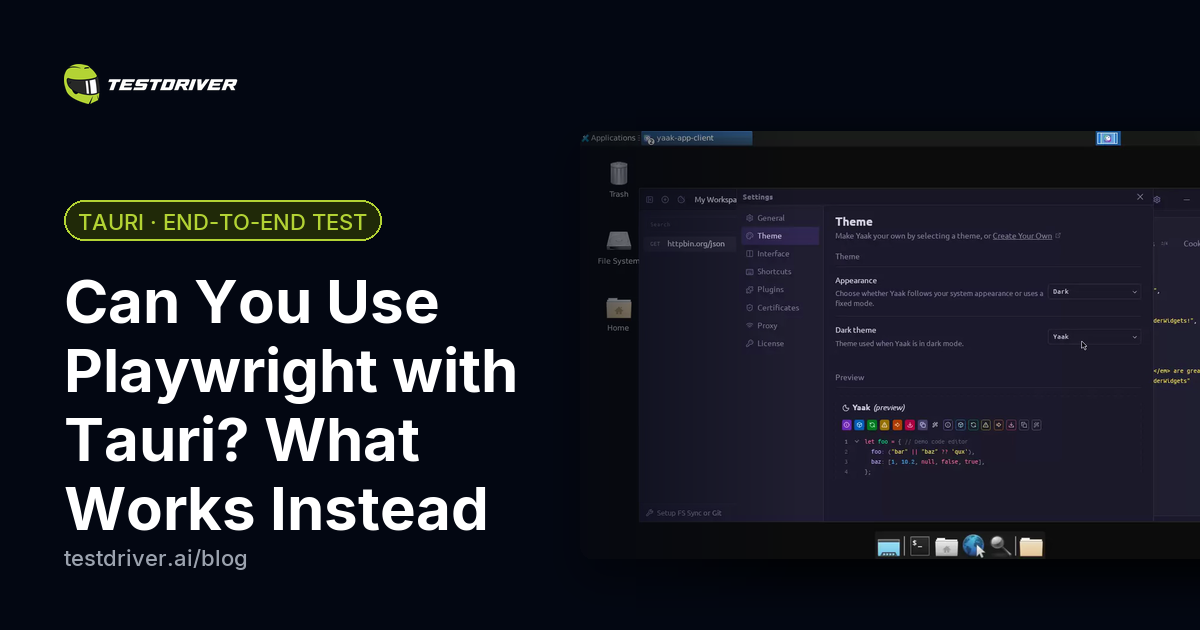
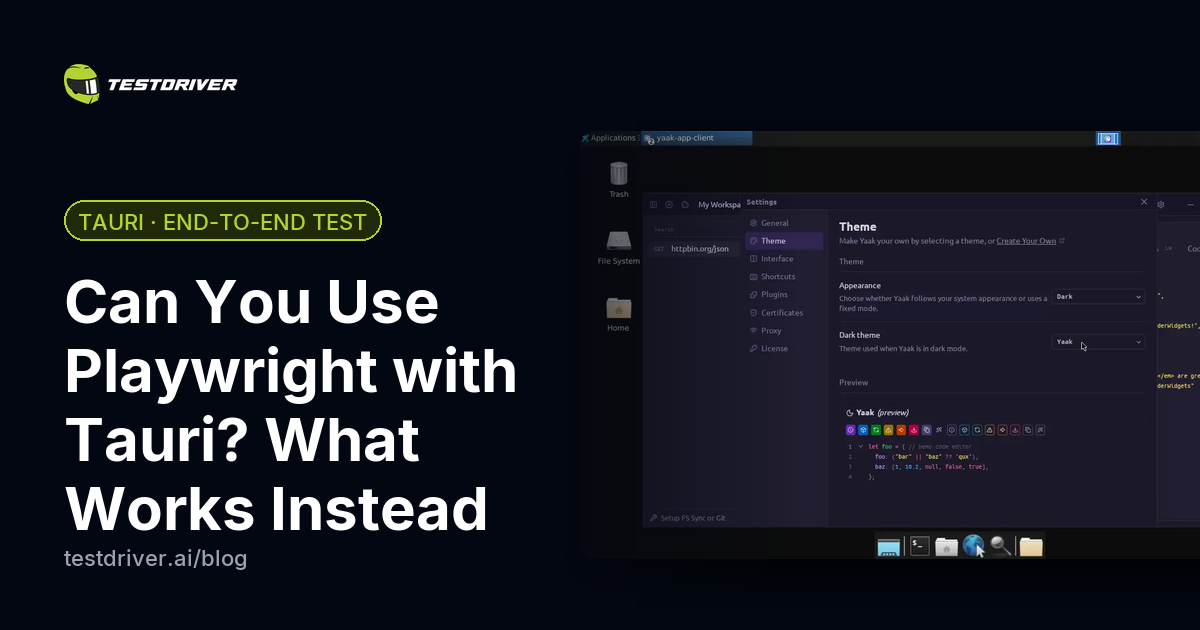
Wait for dark mode to paint before asserting

diff --git a/README.md b/README.md
@@ -1,6 +1,6 @@
 # Can You Use Playwright with Tauri? What Works Instead
 
-[![TestDriver running this test (sped up)](media/speedrun.gif)](https://console.testdriver.ai/replay/6ad9179cc2408c0c24595c4c?share=STCx7SJt91JPzP1lAhzw)
+[![TestDriver running this test (sped up)](media/speedrun.gif)](https://console.testdriver.ai/replay/6ad91d3ac2408c0c24595c82?share=iVjGeIlcd99zfpKNqUhN1Q)
 
 *Sped up: idle time removed. Click to watch the full replay with step-by-step logs.*
 
